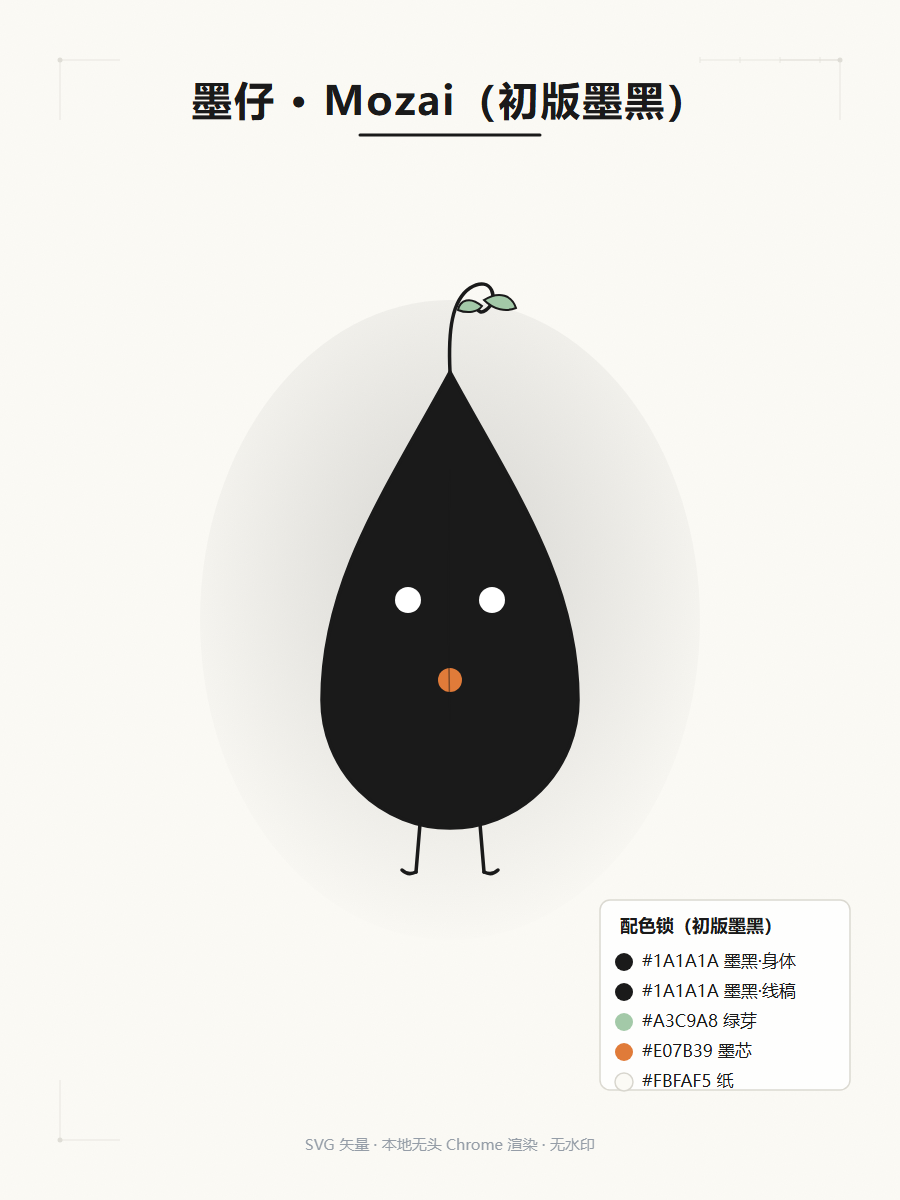
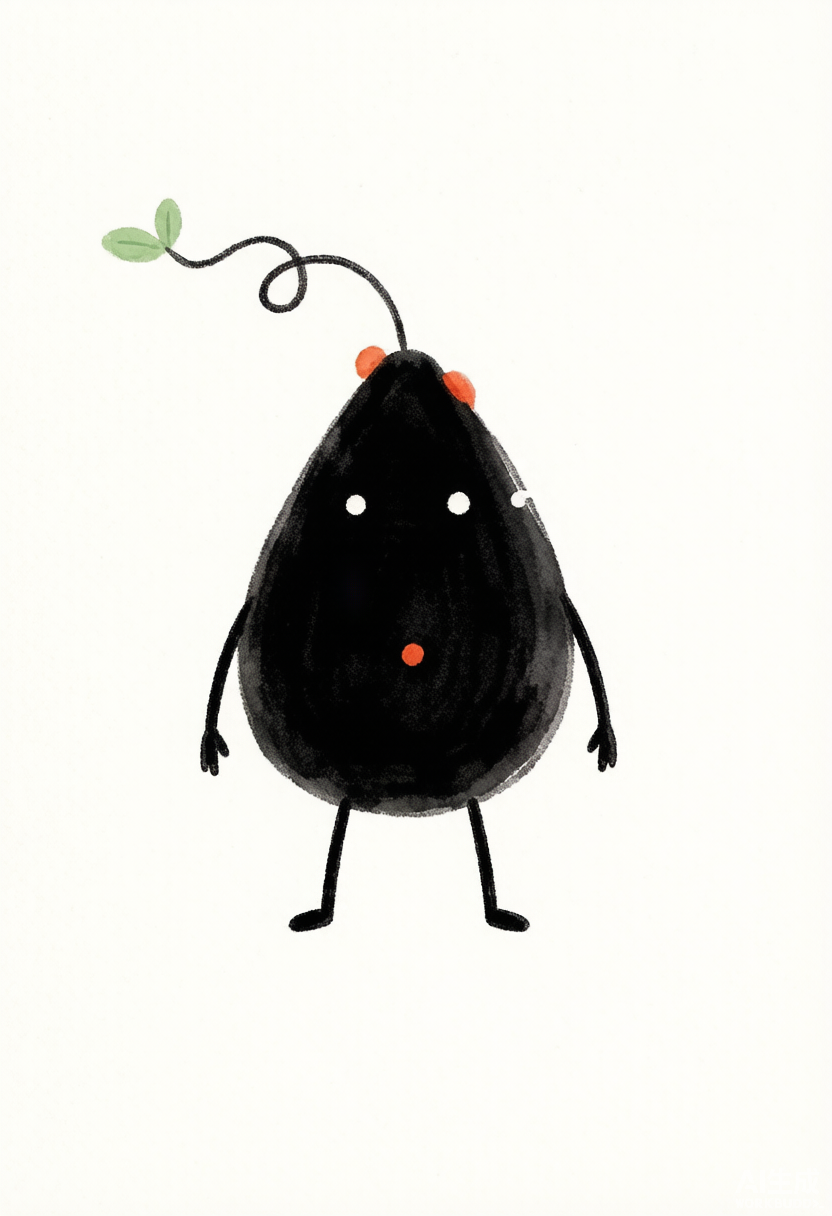
v1.1.2: 墨仔人物卡升级为肢体完整·表情完整版（母版 image-to-image）

diff --git a/SKILL.md b/SKILL.md
@@ -1,79 +1,1 @@
----
-name: inkhand-deck
-version: 1.1.1
-description: Create refined Chinese handdrawn technical article/PPT-style page images featuring the recurring original IP 墨仔 (Mozai), a small soft-ink teardrop creature that acts as the absurd worker in each diagram. Fuses ian-handdrawn-ppt's refined commercial handdrawn shell with an original recurring actor IP. Use when the user wants handdrawn article/slides/courseware/课件/演示稿/配图 that needs a consistent mascot character performing the core conceptual action in each page, or wants the 墨仔 IP, or wants a handdrawn deck with a recurring ink-drop character. Default outputs are 21:9 covers and 16:9 body illustrations with 墨仔 embedded as the actor.
----
-
-# Inkhand Deck · 墨仔手绘
-
-Refined Chinese handdrawn technical page decks with **墨仔 (Mozai)**, the original recurring IP, as the absurd worker in each diagram.
-
-## What this skill is
-
-A fusion of two proven visual systems:
-
-- **Base shell** (from `ian-handdrawn-ppt` V6): refined commercial Chinese handdrawn technical illustration on near-white warm paper, fine ink + pencil, pastel labels, semantic archetypes, large negative space.
-- **Actor layer** (originated here, inspired by `ian-xiaohei-illustrations`): a recurring small ink-drop IP — **墨仔** — embedded as the action subject of each diagram. Calm, deadpan, slightly absurd, never cute.
-
-墨仔 is **not** a decorative mascot. It is the system's operator: it carries, funnels, pulls, warns, opens, records. Removing 墨仔 should weaken the metaphor.
-
-## Operating Rule
-
-Default production output is complete raster page images from the built-in image generation model. Blog/article covers default to 21:9; body illustrations default to 16:9. Each page contains both the semantic diagram and exact short Chinese text. 墨仔 appears on every body page as the actor (optional on covers).
-
-This skill produces PPT-style **visual page images**, not editable PPTX/PDF. Do not route to presentation/document packaging because the user says PPT/PPTX/PDF.
-
-## Resource Map
-
-Load only the references you need:
-
-- `references/visual-dna-fusion.md` — merged style lock: handdrawn shell + 墨仔 placement rules.
-- `references/mozai-character.md` — 墨仔 detailed spec for prompts (look, variants, scale, action library).
-- `references/mozai-prompt.md` — copy-paste prompt cheatsheet (full / short / global-lock blocks).
-- `references/slide-archetypes.md` — semantic mapping with 墨仔 actor role per archetype.
-- `references/prompt-patterns-fusion.md` — complete prompt templates with 墨仔 injection.
-- `references/qa-checklist.md` — verification gates before delivery.
-- `assets/theme-tokens-fusion.json` — color/spacing tokens (paper, ink, pastels, 墨仔 accent).
-- `assets/mozai-character-sheet.png` — character reference sheet (clean single-墨仔, optional visual anchor).
-- `assets/mozai-mother-version.png` — 墨黑初版视觉金标准（原始母版 demo 页，作配色/形象对照；云端生图建议以此为 image-to-image reference 锁定墨黑初版形象）。
-
-## Workflow
-
-1. **Ingest material.** Read the provided content or attached file. Same intake as ian-handdrawn-ppt.
-2. **Intake and gap diagnosis.** Topic, audience, scenario, length, source sufficiency. Ask at most 1–3 questions only when missing info materially changes the deck.
-3. **Plan narrative.** Teaching / persuasive / report / product explanation / knowledge card. One main point per page.
-4. **Map pages to archetypes + 墨仔 actor role.** For each page choose an archetype and decide 墨仔's action (carry / funnel / pull / warn / record / open / transform). Load `references/slide-archetypes.md`.
-5. **Lock the fused style.** Paste the merged style lock from `references/visual-dna-fusion.md` into every page prompt verbatim. Load `references/mozai-character.md` and paste the 墨仔 spec block into every page prompt verbatim. Vary the middle composition per page.
-6. **Generate pages.** One image generation call per page. Use the complete-prompt template from `references/prompt-patterns-fusion.md`. Keep `Required text only` short and exact.
-7. **Verify.** Run the QA checklist. Check: deck shell consistency across pages, 墨仔 presence + actor role on each body page, Chinese text accuracy, 墨仔 not cute/mascot-y, no watermark-related issues you can avoid, semantic accuracy.
-8. **Deliver.** Save images, make a contact sheet, report paths.
-
-## Defaults
-
-- Language: Simplified Chinese.
-- Audience: Chinese learners with some technical curiosity.
-- Deck length: 8–12 pages for an article, 5–8 for a short idea.
-- Output: PNG page images + contact sheet + short blueprint.
-- Style: refined near-white Chinese handdrawn technical illustration (V6 shell) + 墨仔 actor on every body page.
-- 墨仔 accent colors: matte ink-black body (#1A1A1A-ish, not pure #000000), sage-green sprout, one warm red-orange core dot. All linework is ink-black (#1A1A1A-ish), slightly uneven ink texture.
-- Cover: 墨仔 may be present but optional; body pages: 墨仔 required as actor.
-
-## Guardrails (must enforce)
-
-- 墨仔 is **the actor**, not a corner decoration.
-- At most **one** 墨仔 per page.
-- 墨仔 occupies **12–22% of page height** when active; never fills the page.
-- 墨仔 body = soft matte **ink-black** (#1A1A1A-ish, not pure #000000, never hard silhouette) with faint paper grain.
-- 墨仔 keeps its **sage-green sprout** signature on every page it appears.
-- Body language: deadpan, calm, slightly absurd; never cute, never shiny-eyed, never wearing clothes.
-- Handdrawn shell constraints (paper tone, no border, page number, title underline, corner marks, pastel labels, large negative space) still apply on every page.
-- 墨仔 does **not** replace diagram structure — arrows, groupings, flows still come from linework.
-
-## Final Response
-
-When finished, report:
-
-- Output folder and contact sheet path.
-- Page count, deck type, 墨仔's actor role per page.
-- Assumptions made.
-- Verification performed and any remaining risks (e.g., image-model watermark in lower-right corner that must be cropped at publish time).
[1 lines of base64/hex data omitted]

diff --git a/references/mozai-character.md b/references/mozai-character.md
@@ -1,75 +1,1 @@
-# 墨仔 (Mozai) · 角色规范
-
-> 版本 1.1.1 · 2026-08-27（revert 回初版墨黑；新增母版视觉金标准）
-
-Paste this spec block verbatim into every page prompt that includes 墨仔.
-
-> **视觉金标准**：墨黑初版形象以 `assets/mozai-mother-version.png`（原始母版 demo 页）为准。云端生图如需严格锁定墨黑初版形象，请用 ImageGen 的 image-to-image 模式以该图为 reference image（input_fidelity=medium），保证泪滴/绿芽/白点眼/墨芯/腿与母版一致。
-
-## Identity
-
-墨仔 is a small soft-ink teardrop creature — a drop of ink that came alive on the page. It is the system's operator: it carries, funnels, pulls, warns, opens, records. Deadpan, calm, slightly absurd. Never cute. Never a mascot sticker.
-
-## Look (fixed across all pages)
-
-- Body shape: **rounded teardrop / ink-drop**, soft matte **ink-black** (#1A1A1A-ish, slightly uneven ink texture, not pure #000000, never a hard silhouette) with faint paper grain and a slight ink halo.
-- Top of body: **one thin curly tendril** ending in **one tiny sage-green sprout** (signature mark — keep it visible).
-- Face: **two small white-dot eyes**, mostly blank/deadpan; occasionally a thin curved-line mouth; never large, never shiny, never emotive-cartoon.
-- Legs: **two thin legs** at rest.
-- Arms: thin arms appear only when the action requires them.
-- Body accent: **one tiny warm red-orange dot** on the body (the "墨芯").
-- The whole creature should read as **soft ink**, not a graphic icon.
-
-## Variants (how the body changes)
-
-墨仔's body is ink — it can morph while keeping the soft-ink feel and signature sprout:
-
-- **Rest**: teardrop body, two thin legs, sprout up.
-- **Carry**: same body, two thin arms holding a small hand-drawn object.
-- **Funnel**: body becomes a small **ink-black** funnel shape; sprout still visible at the top when possible (note: at funnel scale the sprout may be tiny but must not disappear in body/carry/warn states).
-- **Pull**: body leaning back, one thin arm pulling a line or rope.
-- **Warn**: body upright, one thin arm holding a small sign or pointing at a warning dot.
-- **Record**: body seated with a small notebook/page in lap, one thin arm writing.
-- **Open / peek**: body half out of a small opening (hole, drawer, machine) with the other half hidden; sprout visible.
-- **Transform**: body morphing into a small machine-part (gear, lever, bar) — still soft ink, sprout still visible.
-- **Tiny corner presence**: only when the page is a takeaway or signature slide; otherwise 墨仔 is the actor, not the decoration.
-
-## Personality (must read in the drawing)
-
-- Serious, deadpan, focused on the job.
-- A bit clumsy but never stupid.
-- Slightly absurd — the job it does is the metaphor.
-- Cold humor — never sell cuteness.
-
-## Scale Lock
-
-- Active 墨仔: **12–22% of page height**.
-- Tiny corner 墨仔: ≤8% of page height (only for takeaways / signatures).
-- 墨仔 never overlaps the title or the page number.
-- 墨仔 never touches the corner construction marks.
-
-## Color (墨仔 only)
-
-- Body: soft matte **ink-black** (#1A1A1A-ish, not pure #000000) with faint paper grain.
-- Sprout: sage-green.
-- Core dot: warm red-orange (small, single).
-- No other colors on 墨仔. Information labels stay in pastels.
-
-## Avoid (墨仔)
-
-- Cute mascot, kawaii face, shiny eyes, big smile.
-- Children's cartoon proportions, chunky body, chibi style.
-- Clothing, accessories, props on its body (it can hold objects, not wear them).
-- Multiple 墨仔s on one page.
-- 墨仔 as a tiny bystander in the corner of a busy page (it's the actor).
-- Replacing diagram structure with 墨仔 — 墨仔 operates within the structure, it does not become the structure.
-
-## Generation Prompt Block (paste verbatim)
-
-```text
-Recurring IP character required: 墨仔 (Mozai), a small soft-ink teardrop creature in matte INK-BLACK (around #1A1A1A, not pure #000000, slightly uneven ink texture) with faint paper grain and a slight ink halo, one thin curly tendril on top ending in one tiny sage-green sprout (its signature), two small white-dot eyes, blank deadpan serious face, two thin legs, occasionally thin arms for the action. One tiny warm red-orange core dot on the body. 墨仔 must perform the core conceptual action as the actor, not decorate the scene. Calm, slightly absurd, refined, not cute, not a mascot. Occupies about 12-22% of page height when active. Keep the sage-green sprout visible in every appearance.
-
-HARD RULE: exactly ONE 墨仔 on this page, never two or more. If the page needs 墨仔 at multiple positions, show 墨仔 once in its main actor pose and rely on linework (arrows, ghost outlines, dotted path) to imply motion or sequence; do not draw a second 墨仔 silhouette.
-
-HARD RULE: 墨仔 body and all linework are INK-BLACK (around #1A1A1A). Do NOT use pure #000000 (flat dead black) — keep a soft uneven ink texture. Never tint blue; the whole deck is ink-black on warm paper.
-```
[1 lines of base64/hex data omitted]

diff --git a/references/mozai-prompt.md b/references/mozai-prompt.md
@@ -1,68 +1,1 @@
-# 墨仔 (Mozai) · 生图提示词速查
-
-> 版本 1.1.1 · 2026-08-27（revert 回初版墨黑；新增母版视觉金标准）
-> 开箱即用：直接复制下方任一块到任意生图工具即可锁定墨仔。权威角色规范见 `mozai-character.md`。
-
----
-
-## 一、中文形象卡（给人看的，不是 prompt）
-
-墨仔是一滴在纸上活过来的墨。软墨泪滴身 + 顶部一根细卷须顶着一片小绿芽（签名标记）+ 两个白点眼 + 死鱼脸 + 两条细腿 + 身上一个红橙小墨芯。
-它是"系统操作员"：搬运、漏斗、拉线、警示、记录、探头都由它来做。冷静、死板、有点荒诞，绝不可爱、绝不卖萌、绝不是贴纸吉祥物。
-
-**颜色锁（死规定）**
-- 身体：哑光墨黑 `#1A1A1A`（非死黑 `#000000`，带轻微不均匀墨质）
-- 线稿：墨黑 `#1A1A1A`
-- 绿芽：鼠尾草绿 `#A3C9A8`
-- 墨芯：暖红橙 `#E07B39`
-- 纸底：暖白 `#FBFAF5`
-
----
-
-## 二、英文生图 Prompt Block（★ 直接复制这一块 ★）
-
-> 每行都是硬约束。粘进 prompt 末尾即可，前面照常写页面构图/文案。
-
-```text
-Recurring IP character required: 墨仔 (Mozai), a small soft-ink teardrop creature in matte INK-BLACK (around #1A1A1A, not pure #000000, slightly uneven ink texture) with faint paper grain and a slight ink halo, one thin curly tendril on top ending in one tiny sage-green sprout (its signature), two small white-dot eyes, blank deadpan serious face, two thin legs, occasionally thin arms for the action. One tiny warm red-orange core dot on the body. 墨仔 must perform the core conceptual action as the actor, not decorate the scene. Calm, slightly absurd, refined, not cute, not a mascot. Occupies about 12-22% of page height when active. Keep the sage-green sprout visible in every appearance.
-
-HARD RULE: exactly ONE 墨仔 on this page, never two or more. If the page needs 墨仔 at multiple positions, show 墨仔 once in its main actor pose and rely on linework (arrows, ghost outlines, dotted path) to imply motion or sequence; do not draw a second 墨仔 silhouette.
-
-HARD RULE: 墨仔 body and all linework are INK-BLACK (around #1A1A1A). Do NOT use pure #000000 (flat dead black) — keep a soft uneven ink texture. Never tint blue; the whole deck is ink-black on warm paper.
-```
-
----
-
-## 三、精简版（快速出图用，控得粗一点）
-
-```text
-Include 墨仔 (Mozai): a small matte ink-black (#1A1A1A) soft teardrop ink creature with a tiny sage-green sprout on a curly tendril, two white-dot eyes, deadpan face, red-orange core dot, thin legs. It performs the main action as the actor. Exactly ONE 墨仔, not pure #000000, linework ink-black #1A1A1A.
-```
-
----
-
-## 四、配套"墨黑手绘风"全局锁（每页都要一起粘）
-
-```text
-Refined commercial Chinese handdrawn technical article illustration. Very light warm white paper near #FBFAF5 with subtle grain. No full-page border. Centered Chinese title with one ink-black handdrawn underline. Fine ink-black (#1A1A1A) ink/pencil linework, slightly uneven ink texture, delicate hatching. Muted pastel labels: pale blue, sage green, peach, lavender. Sparse corner construction marks (faint grid/dots/ruler ticks). Generous negative space, calm premium teaching-note feel. Avoid yellow/beige paper, giant fonts, corporate template, shadows, gradients, neon, gibberish, English filler, cute mascot, pure #000000.
-```
-
----
-
-## 五、避坑清单（写进 prompt 的 Avoid 段）
-
-- 可爱吉祥物 / 大眼闪光 / 咧嘴笑 / chibi 比例
-- 给墨仔穿衣服或戴配件（可手持物件，不可穿戴）
-- 一页出现多个墨仔（HARD RULE：仅 1 个）
-- 墨仔缩在角落当看客（正文页它是演员，不是装饰）
-- 死黑 #000000 线稿 / 纯黑身体（HARD RULE：用墨黑 #1A1A1A，非死黑 #000000）
-- 用墨仔替代图表结构（墨仔在结构里"操作"，不"变成"结构）
-
----
-
-## 六、本地 SVG 路线（不走生图模型，无水印）
-
-墨仔是 `<symbol id="mozai">`，源见各 deck 的 `<defs>`（如项目 `胶原蛋白肽科普-墨蓝SVG-deck/01-封面.svg`），7 页全 `<use>` 复用 —— 改一处全联动。
-角色参考图：`assets/mozai-character-sheet.png`（本地 SVG 无水印版）。渲染法见项目日志（Chrome 无头 `--screenshot` SVG）。
-
-> **云端生图严格锁定墨黑初版**：若用云端 ImageGen 出墨仔，建议用 image-to-image 模式以 `assets/mozai-mother-version.png`（墨黑初版母版）为 reference image，比纯文字 prompt 更稳地锁死墨黑 `#1A1A1A` 非死黑、绿芽 `#A3C9A8`、墨芯 `#E07B39`、暖白纸 `#FBFAF5` 的原始形象。
[1 lines of base64/hex data omitted]

diff --git a/CHANGELOG.md b/CHANGELOG.md
@@ -1,42 +1,1 @@
-# Changelog · inkhand-deck
-
-## v1.1.1 (2026-08-27)
-
-同步**墨黑初版视觉金标准母版**（并入 `assets/mozai-mother-version.png`）。
-
-- 新增 `assets/mozai-mother-version.png`：墨黑初版原始母版 demo 页（含 2 墨仔的搬运示意），作为墨仔墨黑初版的"视觉金标准"对照图。
-- `SKILL.md` / `README.md` / `references/mozai-character.md` / `references/mozai-prompt.md` 增加母版引用与"云端生图建议以母版为 image-to-image reference 锁定墨黑初版形象"说明。
-- 版本号 1.1.0 → 1.1.1。
-
-## v1.1.0 (2026-08-27)
-
-恢复墨仔**初版墨黑设计**（revert v1.0.0 的墨蓝去黑）。
-
-- **墨黑风格锁（初版）**：暖白纸 `#FBFAF5` + 墨黑线/身体 `#1A1A1A`（非死黑 `#000000`，带轻微不均匀墨质）+ pastel 标签。
-- 全部 references（mozai-character / mozai-prompt / visual-dna-fusion / prompt-patterns-fusion / qa-checklist）+ SKILL.md + README 配色描述 revert 回墨黑。
-- HARD RULE 由「绝不用纯黑」改为「用墨黑 #1A1A1A，非死黑 #000000，绝不偏蓝」。
-- 角色参考图重出墨黑版（替换 assets/mozai-character-sheet.png）。
-- 绿芽 `#A3C9A8` / 红橙墨芯 `#E07B39` / 白点眼 / 暖白纸 等签名件保留不变。
-
-## v1.0.0 (2026-08-27)
-
-首个公开发布版本。
-
-- **融合来源**：`ian-handdrawn-ppt` V6 手绘外壳 + 原创 IP 墨仔（灵感来自 `ian-xiaohei-illustrations`）。
-- **墨蓝去黑风格锁**：暖白纸 `#FBFAF5` + 深蓝灰线 `#34465E` + 墨蓝身体 `#23386B` + pastel 标签，绝不用纯黑。
-- **7 类页面原型**：封面 / 左右对比 / 主隐喻 / 机制环 / 矩阵表 / 警示 / 落点，每页映射墨仔演员角色（搬运 / 漏斗 / 拉线 / 警示 / 记录 / 探头）。
-- **两种生产模式**：
-  - ☁ 云端生图（ImageGen / nanobanana pro / Gemini）：用 `mozai-character.md` 或 `mozai-prompt.md` 的 prompt block。
-  - 🖥 本地 SVG 矢量（无水印、不花 credits）：墨仔 `<symbol>` + 无头 Chrome 渲染。
-- **文档资产**：
-  - `SKILL.md` — 技能入口、触发词、工作流、Guardrails。
-  - `references/mozai-character.md` — 墨仔角色规范 + 生图 prompt block（权威源）。
-  - `references/mozai-prompt.md` — 开箱即用提示词速查（完整版 / 精简版 / 全局锁 / 避坑）。
-  - `references/visual-dna-fusion.md` — 墨蓝手绘风 DNA 锁。
-  - `references/slide-archetypes.md` — 页面原型 + 墨仔演员角色表。
-  - `references/prompt-patterns-fusion.md` — 生图 prompt 模板 + ImageGen 并发撞名修复经验。
-  - `references/qa-checklist.md` — 出图前 QA 清单。
-  - `assets/mozai-character-sheet.png` — 墨仔角色参考图（本地 SVG 无水印版）。
-  - `assets/theme-tokens-fusion.json` — 主题色 token。
-- **修复**：`qa-checklist.md` 中墨仔身体配色描述由误写的 `ink-black` 统一为 `deep ink-blue (#23386B)`，与全局去黑风格锁一致。
-- **许可**：MIT。
[1 lines of base64/hex data omitted]

diff --git a/README.md b/README.md
@@ -1,53 +1,1 @@
-# inkhand-deck
-
-> 当前版本：**1.1.1**（2026-08-27）· MIT · [sdhack/inkhand-deck](https://github.com/sdhack/inkhand-deck)
-
-墨黑手绘风（初版）· 中文技术图文 / 长文配图技能（WorkBuddy Agent Skill）。
-
-原创 IP **「墨仔（Mozai）」** —— 一滴在纸上活过来的墨。每页作为"演员"操作图表隐喻（搬运 / 漏斗 / 拉线 / 警示 / 记录 / 探头），死板、冷静、有点荒诞，**绝不卖萌、绝不吉祥物化**。
-
-## 特性
-
-- **墨黑风格锁（初版）**：暖白纸 `#FBFAF5` + 墨黑线 `#1A1A1A` + 墨黑身体 `#1A1A1A` + pastel 标签，非死黑 `#000000`
-- **墨仔每页恰好 1 个**（HARD RULE），顶部绿芽签名标记始终可见
-- **7 类页面原型**：封面 / 左右对比 / 主隐喻 / 机制环 / 矩阵表 / 警示 / 落点
-- **两种生产模式**：
-  - ☁ 云端生图（ImageGen / nanobanana pro / Gemini）：用 `references/mozai-character.md` 的 prompt block
-  - 🖥 本地矢量（无水印、不花 credits）：墨仔 `<symbol>` + 无头 Chrome 渲染 SVG，配色 100% 锁死
-
-## 安装
-
-```bash
-# 方式一：克隆到 WorkBuddy 用户技能目录
-git clone https://github.com/sdhack/inkhand-deck.git \
-  "$HOME/.workbuddy/skills/inkhand-deck"
-
-# 方式二：WorkBuddy 对话内用 /skill 引用本地路径，或用 @-zip 安装
-```
-
-## 文件结构
-
-```
-inkhand-deck/
-├── SKILL.md                       # 技能入口与触发词
-├── references/
-│   ├── mozai-character.md         # 墨仔角色规范 + 生图 prompt block ★
-│   ├── mozai-prompt.md            # 生图提示词速查（完整版/精简版/全局锁）★
-│   ├── visual-dna-fusion.md       # 墨黑手绘风 DNA 锁
-│   ├── slide-archetypes.md        # 7 类页面原型
-│   ├── prompt-patterns-fusion.md  # 生图 prompt 模板 + ImageGen 撞名修复经验
-│   └── qa-checklist.md            # 出图 QA 清单
-├── CHANGELOG.md                   # 版本变更记录
-└── assets/
-    ├── mozai-character-sheet.png  # 墨仔角色参考图（本地 SVG 无水印版）
-    ├── mozai-mother-version.png    # 墨黑初版视觉金标准（母版 demo 页，对照用）
-    └── theme-tokens-fusion.json   # 主题色 token
-```
-
-## 墨仔生图提示词
-
-直接复制 `references/mozai-prompt.md` 的「完整版 Prompt Block」（开箱即用，含两条 HARD RULE），或 `references/mozai-character.md` 末尾的 `Generation Prompt Block` 到任意生图工具即可（每页仅 1 个墨仔 / 非死黑 #000000，墨黑 #1A1A1A）。
-
-## 许可
-
-MIT © 2026 sdhack
[1 lines of base64/hex data omitted]
